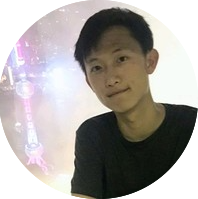
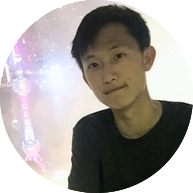
Reformat headshot

diff --git a/index.html b/index.html
@@ -79,7 +79,10 @@
 
         
 
-<p><img style="float: right; padding: 1rem;" src="/images/headshot_circle.png"></p>
+<p><img style="float: right; 
+            padding: 1rem;
+            position: relative;
+            top: -6rem" src="/images/headshot_circle.png"></p>
 
 <p>I&rsquo;m Michael, a student at Harvard who likes thinking about statistics along with some types of economics and computer science. Historically I&rsquo;ve applied the above to problems in biology + health care and finance.</p>
 
@@ -103,7 +106,7 @@ CRISPR - Church Lab, HMS</p>
 
         		<footer>
 			<span>
-			&copy; <time datetime="2019-02-13 23:27:21.640662 -0500 EST m=&#43;0.097674232">2019</time>. Michael Zhang. H' 2020. 
+			&copy; <time datetime="2019-02-13 23:32:51.472565 -0500 EST m=&#43;0.189129024">2019</time>. Michael Zhang. H' 2020. 
 			</span>
 		</footer>
 

diff --git a/posts/006.1-tokyo_metro_markov-tech_post/index.html b/posts/006.1-tokyo_metro_markov-tech_post/index.html
@@ -282,7 +282,7 @@ len((df_subway_small[<span style="color:#e6db74">&#39;latitude&#39;</span>]<span
 
         		<footer>
 			<span>
-			&copy; <time datetime="2019-02-13 23:27:21.725243 -0500 EST m=&#43;0.182255589">2019</time>. Michael Zhang. H' 2020. 
+			&copy; <time datetime="2019-02-13 23:32:51.561529 -0500 EST m=&#43;0.278092911">2019</time>. Michael Zhang. H' 2020. 
 			</span>
 		</footer>
 

diff --git a/about/index.html b/about/index.html
@@ -141,7 +141,7 @@ Experimenting - This Site</p>
 
         		<footer>
 			<span>
-			&copy; <time datetime="2019-02-13 23:27:21.641178 -0500 EST m=&#43;0.098190316">2019</time>. Michael Zhang. H' 2020. 
+			&copy; <time datetime="2019-02-13 23:32:51.472789 -0500 EST m=&#43;0.189352235">2019</time>. Michael Zhang. H' 2020. 
 			</span>
 		</footer>
 

diff --git a/posts/001-starting_things/index.html b/posts/001-starting_things/index.html
@@ -175,7 +175,7 @@ Michael</p>
 
         		<footer>
 			<span>
-			&copy; <time datetime="2019-02-13 23:27:21.639608 -0500 EST m=&#43;0.096620600">2019</time>. Michael Zhang. H' 2020. 
+			&copy; <time datetime="2019-02-13 23:32:51.472017 -0500 EST m=&#43;0.188580675">2019</time>. Michael Zhang. H' 2020. 
 			</span>
 		</footer>
 

diff --git a/posts/002-crispr_vlps-post/index.html b/posts/002-crispr_vlps-post/index.html
@@ -170,7 +170,7 @@
 
         		<footer>
 			<span>
-			&copy; <time datetime="2019-02-13 23:27:21.644155 -0500 EST m=&#43;0.101167336">2019</time>. Michael Zhang. H' 2020. 
+			&copy; <time datetime="2019-02-13 23:32:51.474764 -0500 EST m=&#43;0.191327868">2019</time>. Michael Zhang. H' 2020. 
 			</span>
 		</footer>
 

diff --git a/posts/003-kinase-virus_analysis-post/index.html b/posts/003-kinase-virus_analysis-post/index.html
@@ -168,7 +168,7 @@
 
         		<footer>
 			<span>
-			&copy; <time datetime="2019-02-13 23:27:21.643355 -0500 EST m=&#43;0.100367940">2019</time>. Michael Zhang. H' 2020. 
+			&copy; <time datetime="2019-02-13 23:32:51.474715 -0500 EST m=&#43;0.191279085">2019</time>. Michael Zhang. H' 2020. 
 			</span>
 		</footer>
 

diff --git a/posts/004-summercamp_nyc-intro-2018/index.html b/posts/004-summercamp_nyc-intro-2018/index.html
@@ -268,7 +268,7 @@
 
         		<footer>
 			<span>
-			&copy; <time datetime="2019-02-13 23:27:21.643294 -0500 EST m=&#43;0.100306881">2019</time>. Michael Zhang. H' 2020. 
+			&copy; <time datetime="2019-02-13 23:32:51.473956 -0500 EST m=&#43;0.190519633">2019</time>. Michael Zhang. H' 2020. 
 			</span>
 		</footer>
 

diff --git a/posts/004-summercamp_nyc-map-2018/index.html b/posts/004-summercamp_nyc-map-2018/index.html
@@ -235,7 +235,7 @@
 
         		<footer>
 			<span>
-			&copy; <time datetime="2019-02-13 23:27:21.643204 -0500 EST m=&#43;0.100216417">2019</time>. Michael Zhang. H' 2020. 
+			&copy; <time datetime="2019-02-13 23:32:51.473917 -0500 EST m=&#43;0.190480677">2019</time>. Michael Zhang. H' 2020. 
 			</span>
 		</footer>
 

diff --git a/posts/006-tokyo_metro_markov_chains/index.html b/posts/006-tokyo_metro_markov_chains/index.html
@@ -259,7 +259,7 @@
 
         		<footer>
 			<span>
-			&copy; <time datetime="2019-02-13 23:27:21.638794 -0500 EST m=&#43;0.095805962">2019</time>. Michael Zhang. H' 2020. 
+			&copy; <time datetime="2019-02-13 23:32:51.471614 -0500 EST m=&#43;0.188177204">2019</time>. Michael Zhang. H' 2020. 
 			</span>
 		</footer>
 

diff --git a/posts/index.html b/posts/index.html
@@ -217,7 +217,7 @@
 
         		<footer>
 			<span>
-			&copy; <time datetime="2019-02-13 23:27:21.646793 -0500 EST m=&#43;0.103805422">2019</time>. Michael Zhang. H' 2020. 
+			&copy; <time datetime="2019-02-13 23:32:51.478801 -0500 EST m=&#43;0.195364668">2019</time>. Michael Zhang. H' 2020. 
 			</span>
 		</footer>
 

diff --git a/projects/001-turbine_optimization/index.html b/projects/001-turbine_optimization/index.html
@@ -132,7 +132,7 @@
 
         		<footer>
 			<span>
-			&copy; <time datetime="2019-02-13 23:27:21.643996 -0500 EST m=&#43;0.101008576">2019</time>. Michael Zhang. H' 2020. 
+			&copy; <time datetime="2019-02-13 23:32:51.475599 -0500 EST m=&#43;0.192162227">2019</time>. Michael Zhang. H' 2020. 
 			</span>
 		</footer>
 

diff --git a/projects/002-crispr_vlps/index.html b/projects/002-crispr_vlps/index.html
@@ -144,7 +144,7 @@
 
         		<footer>
 			<span>
-			&copy; <time datetime="2019-02-13 23:27:21.644111 -0500 EST m=&#43;0.101123732">2019</time>. Michael Zhang. H' 2020. 
+			&copy; <time datetime="2019-02-13 23:32:51.474716 -0500 EST m=&#43;0.191279392">2019</time>. Michael Zhang. H' 2020. 
 			</span>
 		</footer>
 
